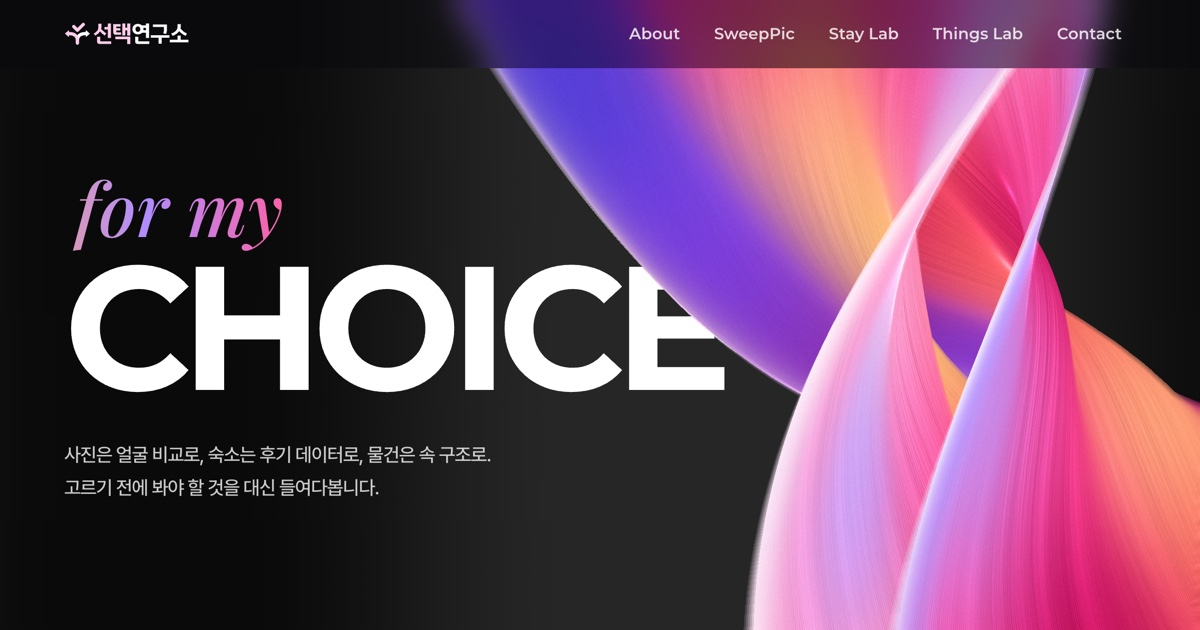
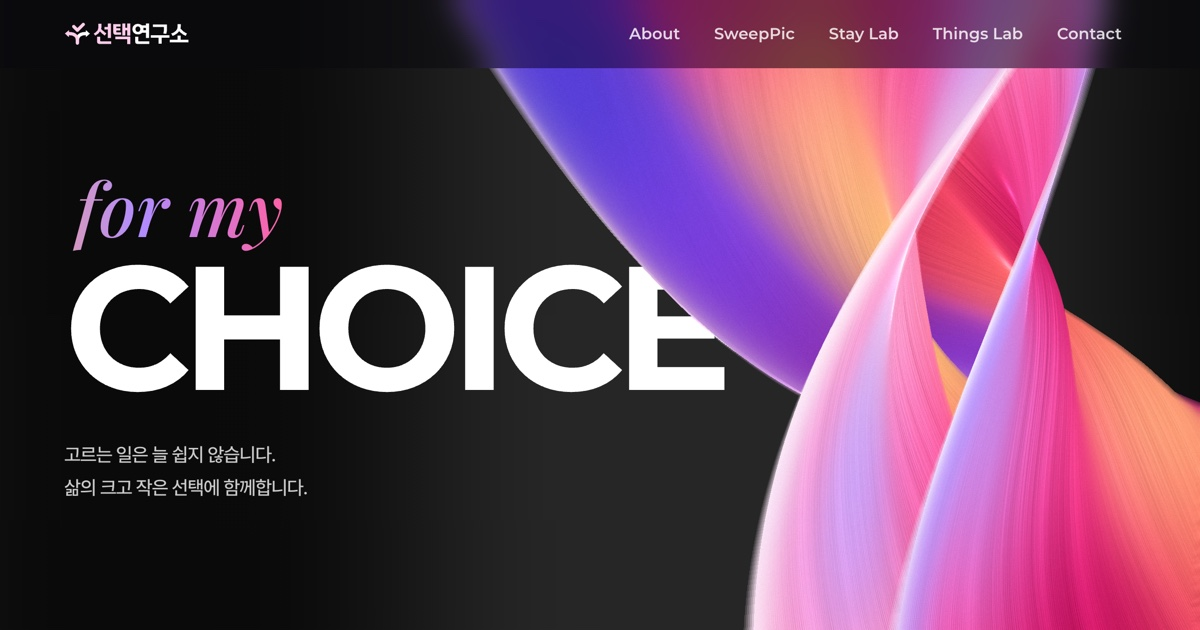
첫 화면 문구 교체
'고르는 일은 늘 쉽지 않습니다. 삶의 크고 작은 선택에 함께합니다.'
공유용 미리보기 이미지도 새 문구로 다시 만듦.

Changed region(s): [[0.0308, 0.6937, 0.4008, 0.7841]]

diff --git a/index.html b/index.html
@@ -57,7 +57,7 @@
             <span class="hero-before" aria-hidden="true" data-rotate="before|for my|to your">before</span>
             <span class="hero-choice" aria-hidden="true">CHOICE</span>
           </h1>
-          <p class="hero-lead">사진은 얼굴 비교로, 숙소는 후기 데이터로, 물건은 속 구조로.<br>고르기 전에 봐야 할 것을 대신 들여다봅니다.</p>
+          <p class="hero-lead">고르는 일은 늘 쉽지 않습니다.<br>삶의 크고 작은 선택에 함께합니다.</p>
         </div>
       </div>
     </section>
